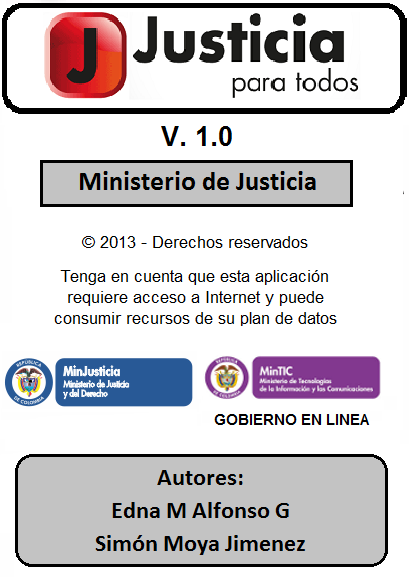
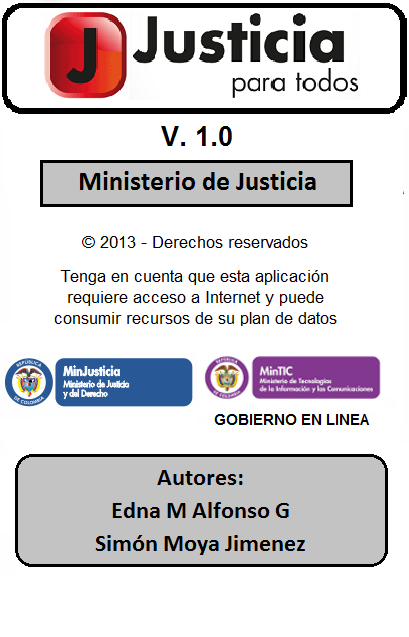
113

diff --git a/www/creditos.html b/www/creditos.html
@@ -68,7 +68,7 @@ updateBackground();
 	document.write('</div>')
 	
 	var ventana_ancho=$(window).width()-35;
-	var ventana_alto=$(window).height()-195;
+	var ventana_alto=$(window).height()-95;
 	if ($(window).width() < $(window).height()) {
 		
 		document.write('<img src="images/creditos.png" alt="Fondo" id="bg" style="height: '+ventana_alto+'px; width: '+ventana_ancho+'; left: 0px;">') 
